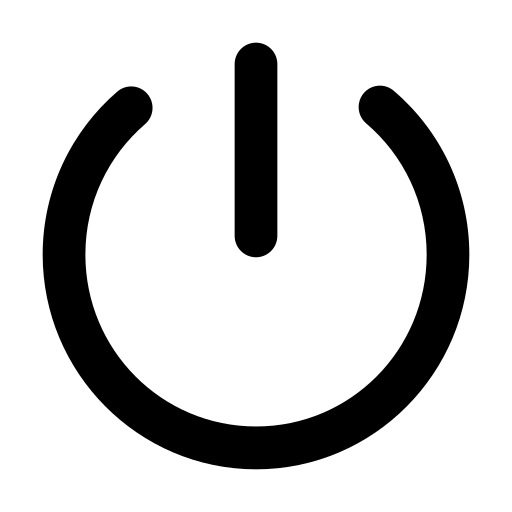
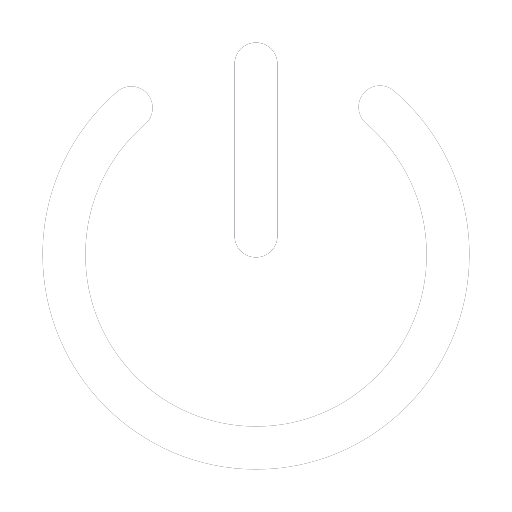
male poprawki

Changed region(s): [[0.0625, 0.1562, 0.9375, 0.9375], [0.4375, 0.0625, 0.5625, 0.5]]

diff --git a/css/style-glowne.css b/css/style-glowne.css
@@ -56,7 +56,7 @@ body::before{
     display: flex;
     gap: clamp(12px, 2vw, 40px);
     flex-wrap: nowrap;
-    padding-left: 10px;
+    padding-left: 40px;
 }
 .nav-left a{
     font-size: clamp(11px, 2vw, 18px);
@@ -75,6 +75,10 @@ body::before{
 .nav-right{
     display: flex;
     gap: clamp(10px, 1.5vw, 20px);align-items: center;
+}
+.menu-class{
+    transform: translateY(-1px);
+    opacity: 0.8;
 }
 .profile{
     display: flex;
@@ -107,6 +111,7 @@ body::before{
 #profile-icon:hover{
     transform: translate(2px, 2px);
     box-shadow: var(--shadow-pixel-hover);
+    
 }
 .menu{
     display: none;
@@ -176,7 +181,7 @@ body::before{
 .btn{
     position: relative;
     display: inline-block;
-    background: #e0d4f3;
+    background: #be83fbd4;
     color: var(--color-text-dark);
     font-family: var(--font-main);
     font-size: 16px;

diff --git a/index.html b/index.html
@@ -55,14 +55,7 @@
             </a>
         </div>
     </section>
-    
-    <!-- <footer class="site-footer">
-        <h3>O projekcie</h3>
-            <p>Wielka Studencka Batalia to interaktywna gra planszowa z wyzwaniami i mini grami. Zaproś znajomych i rywalizujcie ze sobą!</p>
-            <p class="small">Repozytorium: <code>inzynierka-basic</code></p>
-            <hr>
-        <h3>©<script>document.write(new Date().getFullYear())</script> — Projekt edukacyjny</h3>
-    </footer> -->
+  
 
     <script>
         const API_URL = '/api';
